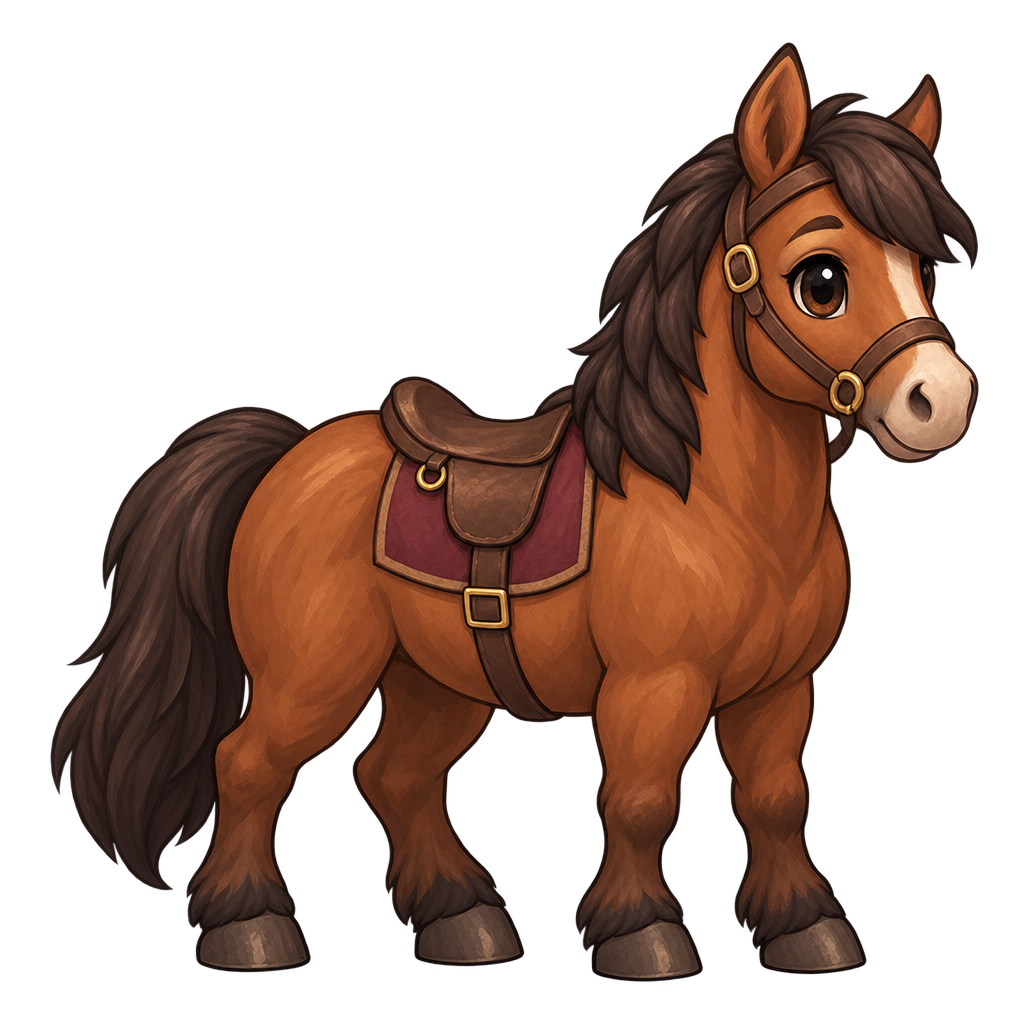
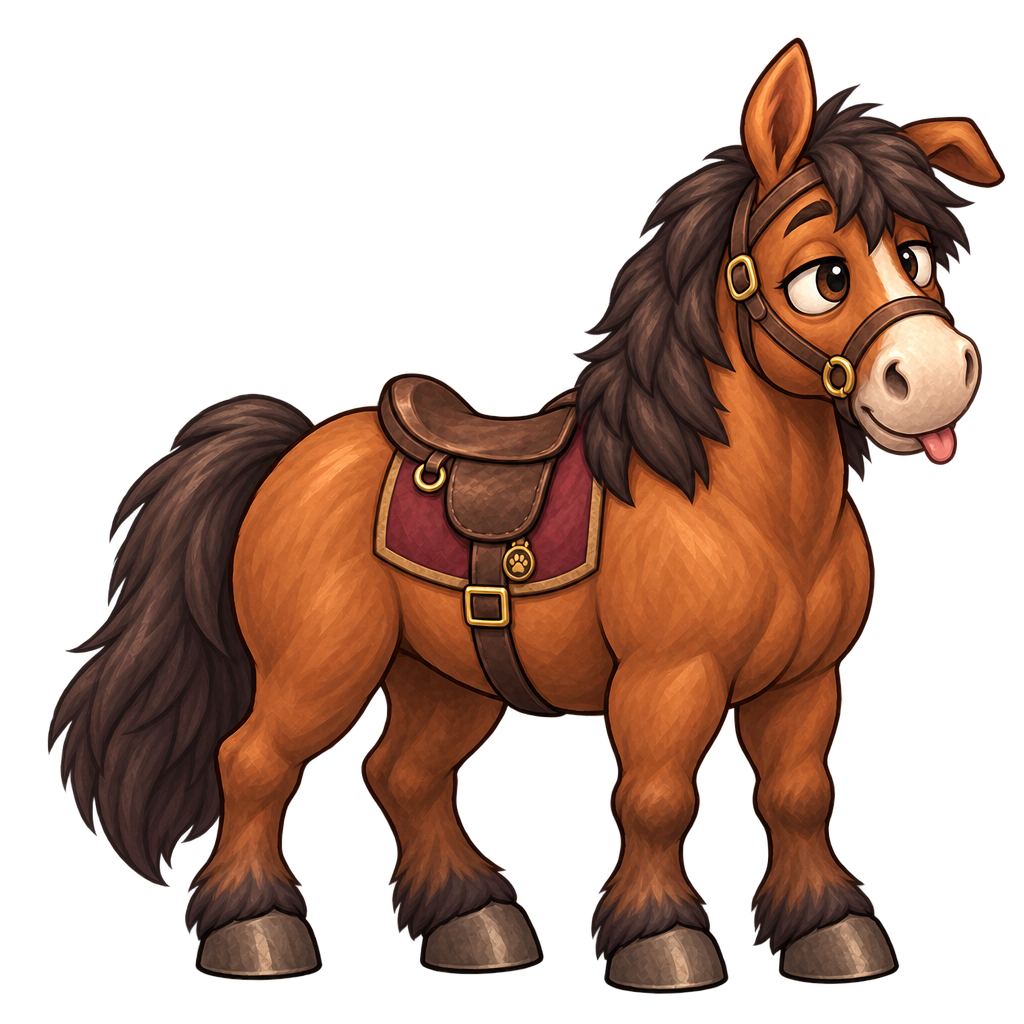
Refresh breeding cottage and goofy horse with full riding motion

Changed region(s): [[0.0312, 0.0312, 1.0, 0.9688]]

diff --git a/assets/mounts/renderer.js b/assets/mounts/renderer.js
@@ -7,9 +7,9 @@ const MountRenderer=(()=>{
  const legs=rows=>rows.map(([x0,x1,root,ankle,phase])=>({x0:x0/1024,x1:x1/1024,root:root/1024,ankle:ankle/1024,phase}));
  // Reviewed saddle and leg coordinates in the complete 1024px source images.
  const profiles={
-  horse:{height:65,seat:[482/1024,437/1024],front:[.59,.18,.84,.67],stride:.019,lift:.024,legs:legs([[174,330,802,918,0],[345,542,780,914,Math.PI],[562,712,777,923,Math.PI],[715,885,783,921,0]])},
-  leopard:{height:65,seat:[513/1024,438/1024],front:[.59,.25,.88,.69],stride:.023,lift:.027,legs:legs([[158,322,751,847,0],[365,565,758,838,Math.PI],[631,816,744,854,Math.PI],[816,1005,770,844,0]])},
-  'spectral-tiger':{height:65,seat:[470/1024,426/1024],front:[.55,.21,.88,.70],stride:.025,lift:.026,legs:legs([[23,258,785,880,0],[308,550,818,873,Math.PI],[550,794,780,878,Math.PI],[800,1024,788,875,0]]),spectral:true}
+  horse:{height:65,seat:[482/1024,437/1024],front:[.59,.18,.84,.67],stride:.023,lift:.026,rise:2.2,pitch:.033,surge:.55,stretch:.016,lean:.043,legs:legs([[174,335,802,918,0],[345,552,780,914,Math.PI],[562,736,777,925,Math.PI],[739,912,783,920,0]])},
+  leopard:{height:65,seat:[513/1024,438/1024],front:[.59,.25,.88,.69],stride:.027,lift:.031,rise:2.65,pitch:.038,surge:.8,stretch:.021,lean:.051,legs:legs([[158,322,751,847,0],[365,565,758,838,Math.PI],[631,816,744,854,Math.PI],[816,1005,770,844,0]])},
+  'spectral-tiger':{height:65,seat:[470/1024,426/1024],front:[.55,.21,.88,.70],stride:.028,lift:.03,rise:2.45,pitch:.034,surge:.7,stretch:.018,lean:.048,legs:legs([[23,258,785,880,0],[308,550,818,873,Math.PI],[550,794,780,878,Math.PI],[800,1024,788,875,0]]),spectral:true}
  };
  function ready(img){return !!(img&&img.complete!==false&&(img.naturalWidth||img.width)>0&&(img.naturalHeight||img.height)>0);}
  function readArt(id,img){
@@ -47,7 +47,18 @@ const MountRenderer=(()=>{
     if(!solid&&start>=0){front.rect(start,y,x-start,1);start=-1;}
    }
   }
-  const result={id,img,iw,ih,source,serial:nextArt++,profile,bounds:[left,top,right-left+1,bottom-top+1],ground:[(left+right)/2,bottom+1],front,outside};
+  // Each foot keeps its original ground plane. These contact points let the
+  // shoulders and saddle rise without dragging the planted feet into the air.
+  const contacts=profile.legs.map(p=>{
+   const x0=Math.round(p.x0*iw),x1=Math.round(p.x1*iw);
+   for(let y=bottom;y>=Math.round(p.ankle*ih);y--){
+    let sum=0,count=0;
+    for(let x=x0;x<x1;x++)if(data[(y*iw+x)*4+3]>=128){sum+=x;count++;}
+    if(count)return {x:sum/count,y:y+1};
+   }
+   return {x:(x0+x1)/2,y:bottom+1};
+  });
+  const result={id,img,iw,ih,source,serial:nextArt++,profile,bounds:[left,top,right-left+1,bottom-top+1],ground:[(left+right)/2,bottom+1],front,outside,contacts};
   artCache.set(img,result);return result;
  }
  function canvas(w,h){const c=document.createElement('canvas');c.width=w;c.height=h;c.naturalWidth=w;c.naturalHeight=h;c.complete=true;return c;}
@@ -57,23 +68,38 @@ const MountRenderer=(()=>{
   while(bytes+size>LIMIT&&poseCache.size){const [old,e]=poseCache.entries().next().value;bytes-=e.bytes;poseCache.delete(old);}
   if(size<=LIMIT){poseCache.set(key,{image,art,bytes:size});bytes+=size;}return image;
  }
+ function gait(profile,phase,moving,size,time=0){
+  const breath=Math.sin(time*2.15)*(1-moving),stride=Math.sin(phase*2-.55);
+  return {
+   bob:-profile.rise*size*(.5+.5*stride)*moving,
+   bodyX:Math.sin(phase*2-.9)*profile.surge*size*moving,
+   angle:Math.sin(phase+.35)*profile.pitch*moving+breath*.0015,
+   bodyScaleX:1-Math.sin(phase*2+.25)*profile.stretch*.35*moving,
+   bodyScaleY:1+Math.sin(phase*2+.25)*profile.stretch*moving+breath*.004
+  };
+ }
  function poseFrame(l,device){
   const a=l.art;if(l.moving<=0)return a.img;
   const w=Math.min(a.iw,Math.max(128,Math.ceil(a.iw*l.px*device/64)*128)),h=Math.max(1,Math.round(a.ih*w/a.iw));
-  const step=Math.round(l.phase/(Math.PI*2)*32),strength=Math.round(l.moving*4)/4;
+  const step=Math.round(l.phase/(Math.PI*2)*48),strength=Math.round(l.moving*4)/4;
   if(!strength)return a.img;
-  const source=a.serial+':'+w,key=source+':'+(step%32)+':'+strength;
+  const source=a.serial+':'+w,key=source+':'+((step%48+48)%48)+':'+strength;
   const found=take(key);if(found)return found;
   let base=w===a.iw?a.img:take(source+':base');
   if(!base){base=canvas(w,h);const bg=base.getContext('2d');bg.imageSmoothingEnabled=true;bg.imageSmoothingQuality='high';bg.drawImage(a.img,0,0,w,h);keep(source+':base',base,a.serial);}
-  const pad=Math.ceil(w*a.profile.stride)+2;
-  const out=canvas(w+pad*2,h);out.mountInset=pad/w*a.iw;
-  const g=out.getContext('2d');g.imageSmoothingEnabled=true;g.imageSmoothingQuality='high';g.translate(pad,0);g.drawImage(base,0,0);
-  const rows=a.profile.legs.map(p=>{
-   const phase=step/32*Math.PI*2+p.phase,top=Math.round(p.root*h),ankle=Math.round(p.ankle*h);
+  const pad=Math.ceil(w*a.profile.stride)+2,padY=Math.ceil(h*.11)+2;
+  const out=canvas(w+pad*2,h+padY*2);out.mountInset=pad/w*a.iw;out.mountTop=padY/h*a.ih;
+  const g=out.getContext('2d');g.imageSmoothingEnabled=true;g.imageSmoothingQuality='high';g.translate(pad,padY);g.drawImage(base,0,0);
+  const cycle=step/48*Math.PI*2,motion=gait(a.profile,cycle,strength,l.size);
+  const rows=a.profile.legs.map((p,i)=>{
+   const phase=cycle+p.phase,top=Math.round(p.root*h),ankle=Math.round(p.ankle*h);
    const lift=Math.min(h*a.profile.lift,(ankle-top)*.35)*Math.pow(Math.max(0,Math.sin(phase)),1.3)*strength;
    const reach=-Math.cos(phase)*w*a.profile.stride*strength;
-   return {x:Math.round(p.x0*w),right:Math.round(p.x1*w),top,ankle,lift,reach,knee:top+(ankle-top)*.5};
+   const foot=a.contacts[i],footY=(foot.y-a.ground[1])*l.px;
+   const footX=(foot.x-a.ground[0]+reach*a.iw/w)*l.px*motion.bodyScaleX;
+   const targetY=footY-lift*a.ih/h*l.px;
+   const plantedY=((targetY-motion.bob-Math.sin(motion.angle)*footX)/(Math.cos(motion.angle)*l.px*motion.bodyScaleY)-(foot.y-a.ground[1]))*h/a.ih;
+   return {x:Math.round(p.x0*w),right:Math.round(p.x1*w),top,ankle,dy:plantedY,lift,reach,knee:top+(ankle-top)*.5};
   });
   for(const p of rows)g.clearRect(p.x,p.top,p.right-p.x,h-p.top);
   // Connected affine sections: the root stays planted in the original body;
@@ -85,10 +111,10 @@ const MountRenderer=(()=>{
    g.drawImage(base,p.x,from,p.right-p.x,height,p.x,from,p.right-p.x,height);g.restore();
   }
   for(const p of rows){
-   const kneeX=p.reach*.35+p.lift*.14,kneeY=-p.lift*.35;
+   const kneeX=p.reach*.35+p.lift*.14,kneeY=p.dy*.4;
    section(p,p.top,p.knee,0,0,kneeX,kneeY);
-   section(p,p.knee,p.ankle,kneeX,kneeY,p.reach,-p.lift);
-   section(p,p.ankle,h,p.reach,-p.lift,p.reach,-p.lift);
+   section(p,p.knee,p.ankle,kneeX,kneeY,p.reach,p.dy);
+   section(p,p.ankle,h,p.reach,p.dy,p.reach,p.dy);
   }
   return keep(key,out,a.serial);
  }
@@ -100,26 +126,25 @@ const MountRenderer=(()=>{
   const fx=options.fx<0?-1:1,groundY=16*size;
   const px=art.profile.height*size/art.bounds[3];
   const time=Number.isFinite(options.time)?options.time:0;
-  const bodyScaleY=1+Math.sin(time*2.15)*.004*(1-moving*.6);
-  const bob=-Math.pow(Math.sin(phase),2)*.48*size*moving;
-  const angle=Math.sin(phase)*.009*moving;
-  const seatX=(art.profile.seat[0]*art.iw-art.ground[0])*px;
+  const {bob,bodyX,angle,bodyScaleX,bodyScaleY}=gait(art.profile,phase,moving,size,time);
+  const seatX=(art.profile.seat[0]*art.iw-art.ground[0])*px*bodyScaleX;
   const seatY=(art.profile.seat[1]*art.ih-art.ground[1])*px*bodyScaleY;
   const cosine=Math.cos(angle),sine=Math.sin(angle);
   const hipY=-3; // The belt/hip of the 48px painted player, above its knee hem.
-  const riderX=fx*(seatX*cosine-seatY*sine);
+  const riderX=fx*(bodyX+seatX*cosine-seatY*sine);
   const riderY=groundY+bob+seatX*sine+seatY*cosine-hipY;
   const width=clamp(Number.isFinite(options.bootWidth)?options.bootWidth:10,8,13);
-  const stirrup=Math.sin(phase+.35)*moving;
-  const riderAngle=fx*(.025*moving+Math.sin(phase*2)*.004*moving);
+  const stirrup=Math.sin(phase*2-.4)*moving;
+  const riderAngle=fx*(art.profile.lean*moving+angle*.55+Math.sin(phase*2-.8)*.014*moving);
   const boots={
    far:{x:-fx*3.5,y:1.8,width:width*.78,angle:fx*.12,fx,alpha:.83},
-   near:{x:fx*(3.5+stirrup*.3),y:3.5+stirrup*.2,width:width*.87,angle:-fx*(.14+stirrup*.025),fx,alpha:1}
+   near:{x:fx*(3.5+stirrup*.55),y:3.5+stirrup*.4,width:width*.87,angle:-fx*(.14+stirrup*.045),fx,alpha:1}
   };
-  return {art,x:Number.isFinite(options.x)?options.x:0,y:Number.isFinite(options.y)?options.y:0,fx,phase,moving,size,px,bob,angle,bodyScaleY,riderAngle,groundY,riderX,riderY,hipY,by:0,boots,width:art.bounds[2]*px,height:art.bounds[3]*px};
+  return {art,x:Number.isFinite(options.x)?options.x:0,y:Number.isFinite(options.y)?options.y:0,fx,phase,moving,size,px,bob,bodyX,angle,bodyScaleX,bodyScaleY,riderAngle,groundY,riderX,riderY,hipY,by:0,boots,width:art.bounds[2]*px,height:art.bounds[3]*px};
  }
- function mountTransform(g,l){g.translate(0,l.groundY+l.bob);g.scale(l.fx,1);g.rotate(l.angle);g.scale(l.px,l.px*l.bodyScaleY);g.translate(-l.art.ground[0],-l.art.ground[1]);}
+ function mountTransform(g,l){g.translate(l.fx*l.bodyX,l.groundY+l.bob);g.scale(l.fx,1);g.rotate(l.angle);g.scale(l.px*l.bodyScaleX,l.px*l.bodyScaleY);g.translate(-l.art.ground[0],-l.art.ground[1]);}
  function riderTransform(g,l){g.translate(l.riderX,l.riderY+l.hipY);g.rotate(l.riderAngle);g.translate(0,-l.hipY);}
+ function riderPoint(l,x,y){const c=Math.cos(l.riderAngle),s=Math.sin(l.riderAngle);return {x:l.riderX+c*x-s*(y-l.hipY),y:l.riderY+l.hipY+s*x+c*(y-l.hipY)};}
  function drawRiderBoots(g,img,ride,layer){
   if(!ready(img)||!ride?.boots)return;
   const keys=layer?[layer]:['near'];
@@ -143,8 +168,8 @@ const MountRenderer=(()=>{
    g.save();clip(l.art.outside)(g);riderTransform(g,l);drawRiderBoots(g,options.bootImg,l,'far');g.restore();
   }
   g.save();if(l.art.profile.spectral)g.globalAlpha*=.88;mountTransform(g,l);
-  const inset=pose.mountInset||0,paintWidth=l.art.iw+inset*2;
-  g.drawImage(typeof mip==='function'?mip(pose,paintWidth*l.px):pose,-inset,0,paintWidth,l.art.ih);g.restore();
+  const inset=pose.mountInset||0,top=pose.mountTop||0,paintWidth=l.art.iw+inset*2;
+  g.drawImage(typeof mip==='function'?mip(pose,paintWidth*l.px):pose,-inset,-top,paintWidth,l.art.ih+top*2);g.restore();
   if(typeof drawRider==='function'){
    // Used inside the player's body save/restore only. Held weapons remain in
    // front of the neck; clipping the complete callback would swallow a sword.
@@ -162,6 +187,6 @@ const MountRenderer=(()=>{
   g.restore();
  }
  function clear(){artCache=new WeakMap();poseCache.clear();bytes=0;}
- return Object.freeze({draw,getLayout,drawRiderBoots,drawCast,clear,stats:()=>({entries:poseCache.size,bytes,limit:LIMIT})});
+ return Object.freeze({draw,getLayout,drawRiderBoots,drawCast,riderTransform,riderPoint,clear,stats:()=>({entries:poseCache.size,bytes,limit:LIMIT})});
 })();
 if(typeof module!=='undefined'&&module.exports)module.exports=MountRenderer;

diff --git a/game.js b/game.js
@@ -206,7 +206,7 @@ const fullCowImg=new Image();fullCowImg.src='assets/boss/originals/Cow_boss.png?
 const fullRatImg=new Image();fullRatImg.src='assets/boss/originals/rat_boss.png?v=1';
 /* ---- 🚜 the Farm: build assets, loaded lazily ---- */
 const farmImgs={};
-const farmImg=n=>{if(!farmImgs[n]){farmImgs[n]=new Image();farmImgs[n].src='assets/farm/'+n+'.png';}return farmImgs[n];};
+const farmImg=n=>{if(!farmImgs[n]){farmImgs[n]=new Image();farmImgs[n].src='assets/farm/'+n+'.png'+(n==='tide_incubator'?'?v=2':'');}return farmImgs[n];};
 const FARM_BUILD=[
  /* Contact shadows are calibrated against the visible roots, feet and bases. cx/rx/ry/dy
     use the rendered width; rot follows the ground plane. Floor decals need no extra blob. */
@@ -9089,12 +9089,15 @@ function drawHero(){
  ctx.textAlign='center';
  /* name only (no rating), lifted clear of the sprite; hp lives in the header bar instead */
  let nmY=character?character.headY-3:-33;
- if(rideLayout){ctx.translate(rideLayout.riderX,0);nmY+=rideLayout.riderY;}
  if(isRing(S.gear.trinket))nmY-=9; /* make room for the hovering ring under the name */
- drawEquippedRing(ctx,S.gear.trinket,(character?character.headY:-30)+(rideLayout?.riderY||0),now,h.dead);
+ ctx.save();
+ if(rideLayout)MountRenderer.riderTransform(ctx,rideLayout);
+ drawEquippedRing(ctx,S.gear.trinket,character?character.headY:-30,now,h.dead);
+ ctx.restore();
+ const namePoint=rideLayout?MountRenderer.riderPoint(rideLayout,0,nmY):{x:0,y:nmY+by};
  if(!S.hideName){ /* 👁 toggle in the hero panel. The ring above still hovers - it is gear, not a label */
-  ctx.fillStyle='rgba(0,0,0,0.6)';ctx.fillText(S.name||'Hero',1,nmY+by+1);
-  ctx.fillStyle='#fff';ctx.fillText(S.name||'Hero',0,nmY+by);
+  ctx.fillStyle='rgba(0,0,0,0.6)';ctx.fillText(S.name||'Hero',namePoint.x+1,namePoint.y+1);
+  ctx.fillStyle='#fff';ctx.fillText(S.name||'Hero',namePoint.x,namePoint.y);
  }
  ctx.restore();
 }

diff --git a/assets/mounts/mounts.js b/assets/mounts/mounts.js
@@ -1,7 +1,7 @@
 /* Per-character stable ownership and a disposable, distance-driven riding state. */
 const Mounts=(()=>{
  const catalog=Object.freeze([
-  Object.freeze({id:'horse',name:'Chestnut Courser',kind:'Horse',price:25000,speed:1.65,art:'assets/mounts/horse.png',description:'A steady companion for the long roads of Wasteland.'}),
+  Object.freeze({id:'horse',name:'Chestnut Courser',kind:'Horse',price:25000,speed:1.65,art:'assets/mounts/horse.png',artVersion:2,description:'A goofy, good-hearted companion with a tongue-out grin and a rolling stride.'}),
   Object.freeze({id:'leopard',name:'Amberfang Leopard',kind:'Leopard',price:150000,speed:1.9,art:'assets/mounts/leopard.png',description:'A sure-footed spotted hunter with a swift, rolling stride.'}),
   Object.freeze({id:'spectral-tiger',name:'Azure Spectral Tiger',kind:'Spectral tiger',price:750000,speed:2.1,art:'assets/mounts/spectral-tiger.png',artVersion:2,description:'Blue spirit-fire shimmers beneath its ancient silver armour.'})
  ]);

diff --git a/index.html b/index.html
@@ -804,8 +804,8 @@
 <script src="assets/wasteland/ambience.js?v=1"></script>
 <script src="assets/wasteland/music.js?v=1"></script>
 <script src="assets/ui/wasteland-map.js?v=2"></script>
-<script src="assets/mounts/mounts.js?v=3"></script>
-<script src="assets/mounts/renderer.js?v=2"></script>
+<script src="assets/mounts/mounts.js?v=4"></script>
+<script src="assets/mounts/renderer.js?v=3"></script>
 <script src="assets/tides/catalog.js?v=3"></script>
 <script src="assets/tides/hybrids.js?v=1"></script>
 <script src="assets/tides/breeding.js?v=1"></script>
@@ -818,6 +818,6 @@
 <script src="assets/tides/art-layout.js?v=1"></script>
 <script src="assets/tides/motion.js?v=2"></script>
 <script src="assets/tides/ui.js?v=14"></script>
-<script src="game.js?v=111"></script>
+<script src="game.js?v=112"></script>
 </body>
 </html>
